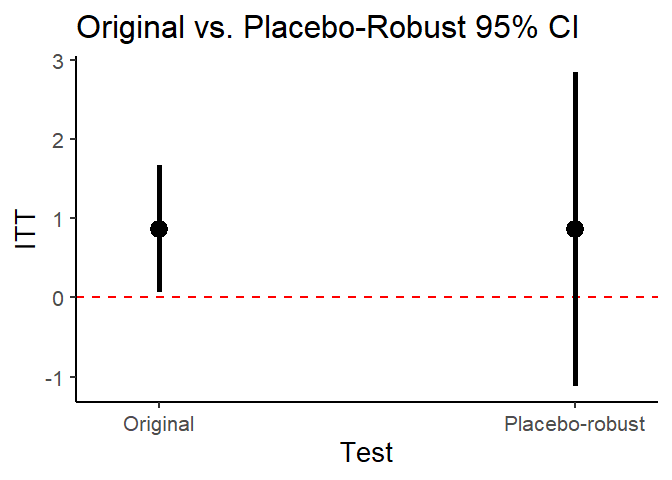
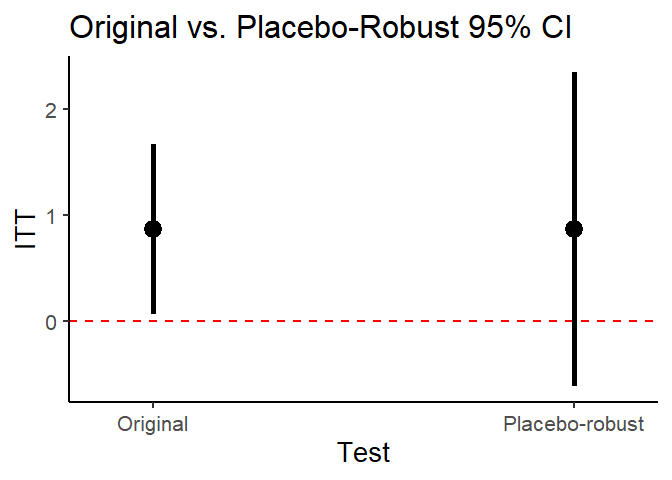
improvement to uesd_robust_ols

diff --git a/README.md b/README.md
@@ -247,7 +247,7 @@ rdd_res <- uesd_robust_rdd(
 #> 
 #> Unadjusted 95% CI for ITT: [0.0628, 1.6685]
 #> 
-#> Placebo‐robust 95% CI for ITT: [-1.1163, 2.8475]
+#> Placebo‐robust 95% CI for ITT: [-0.6169, 2.3481]
 #> 
 #> Unadjusted p-value for ITT: 0.03458
 #> Placebo‐robust p-value for ITT: 0.19184
